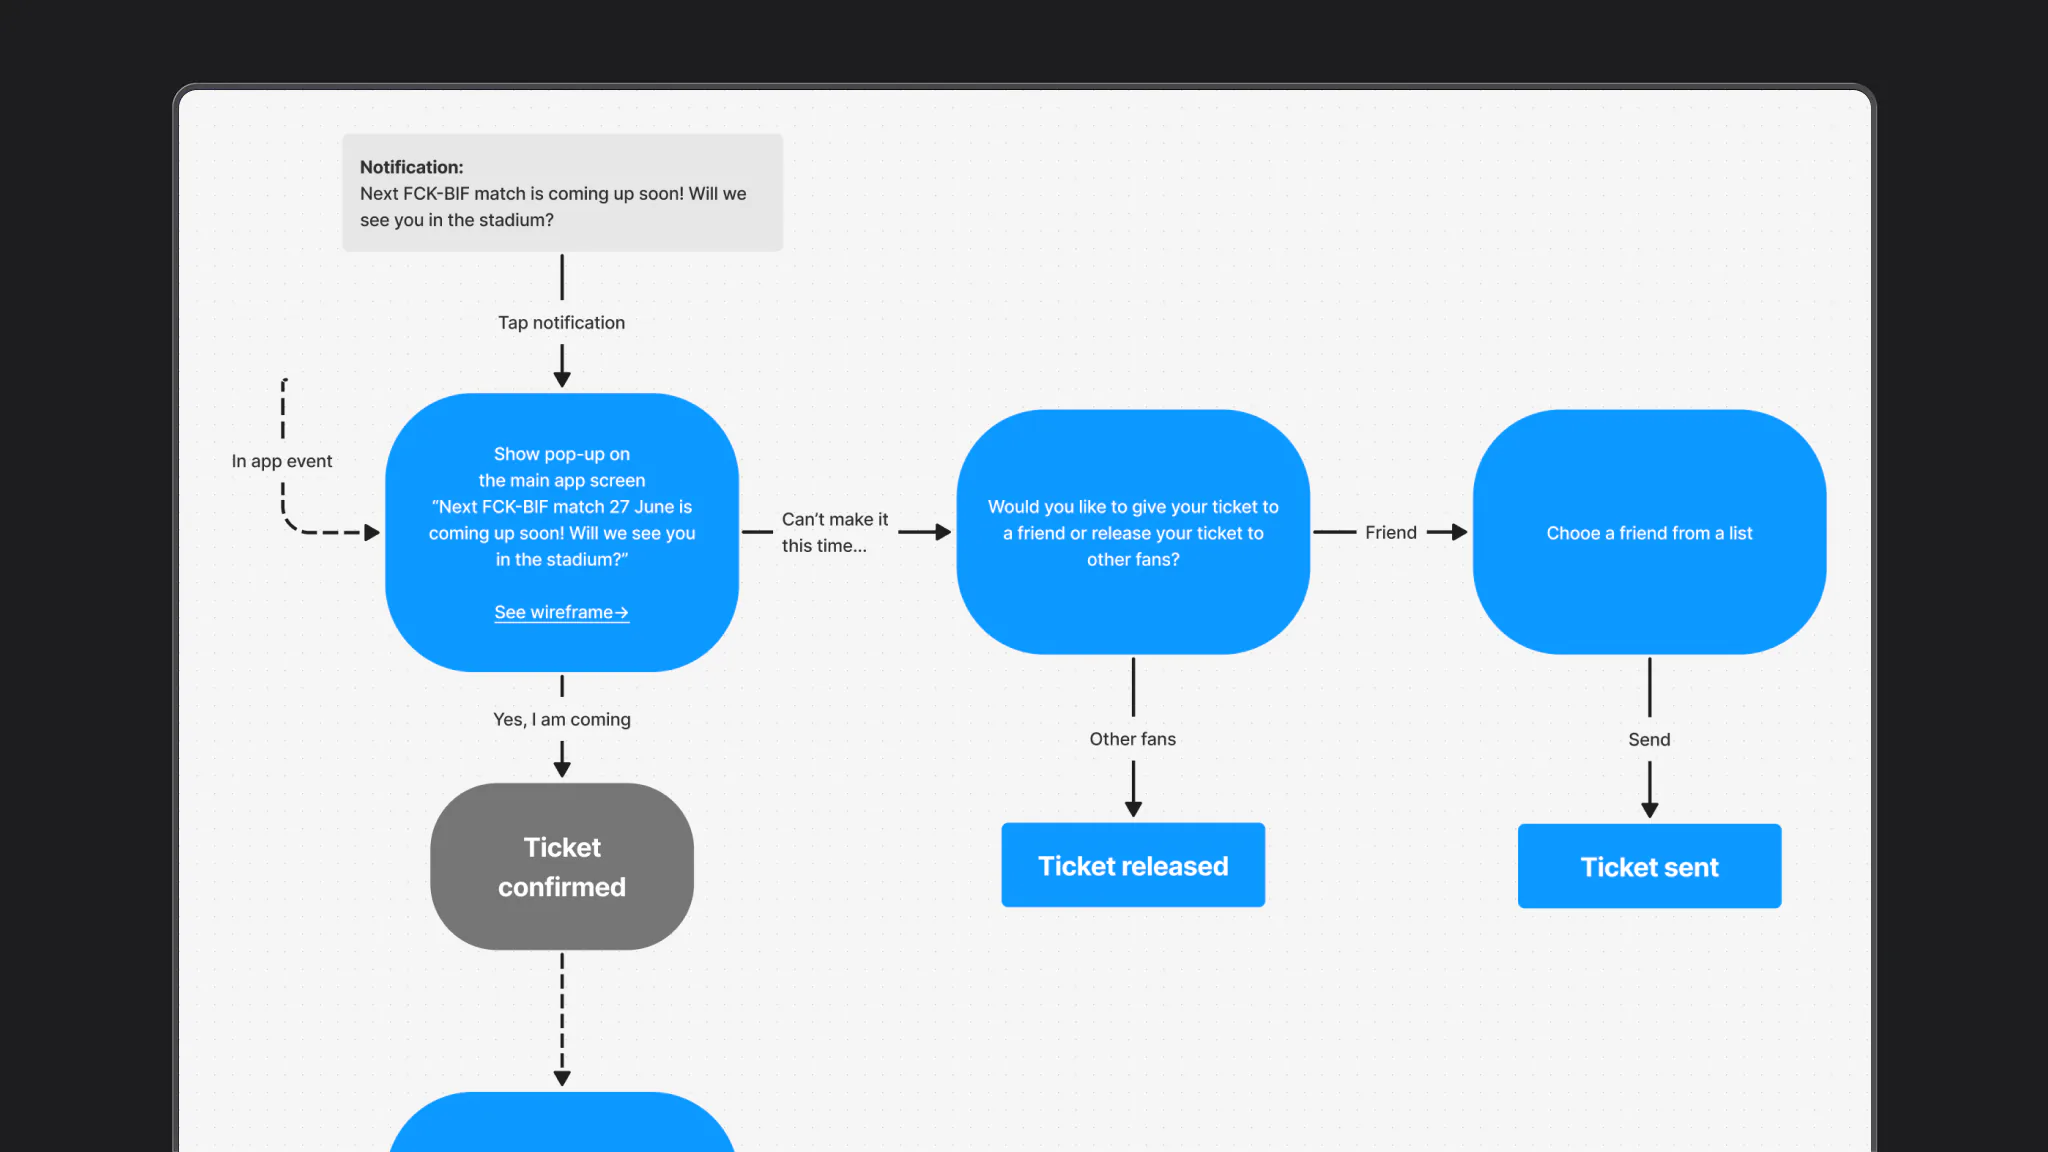
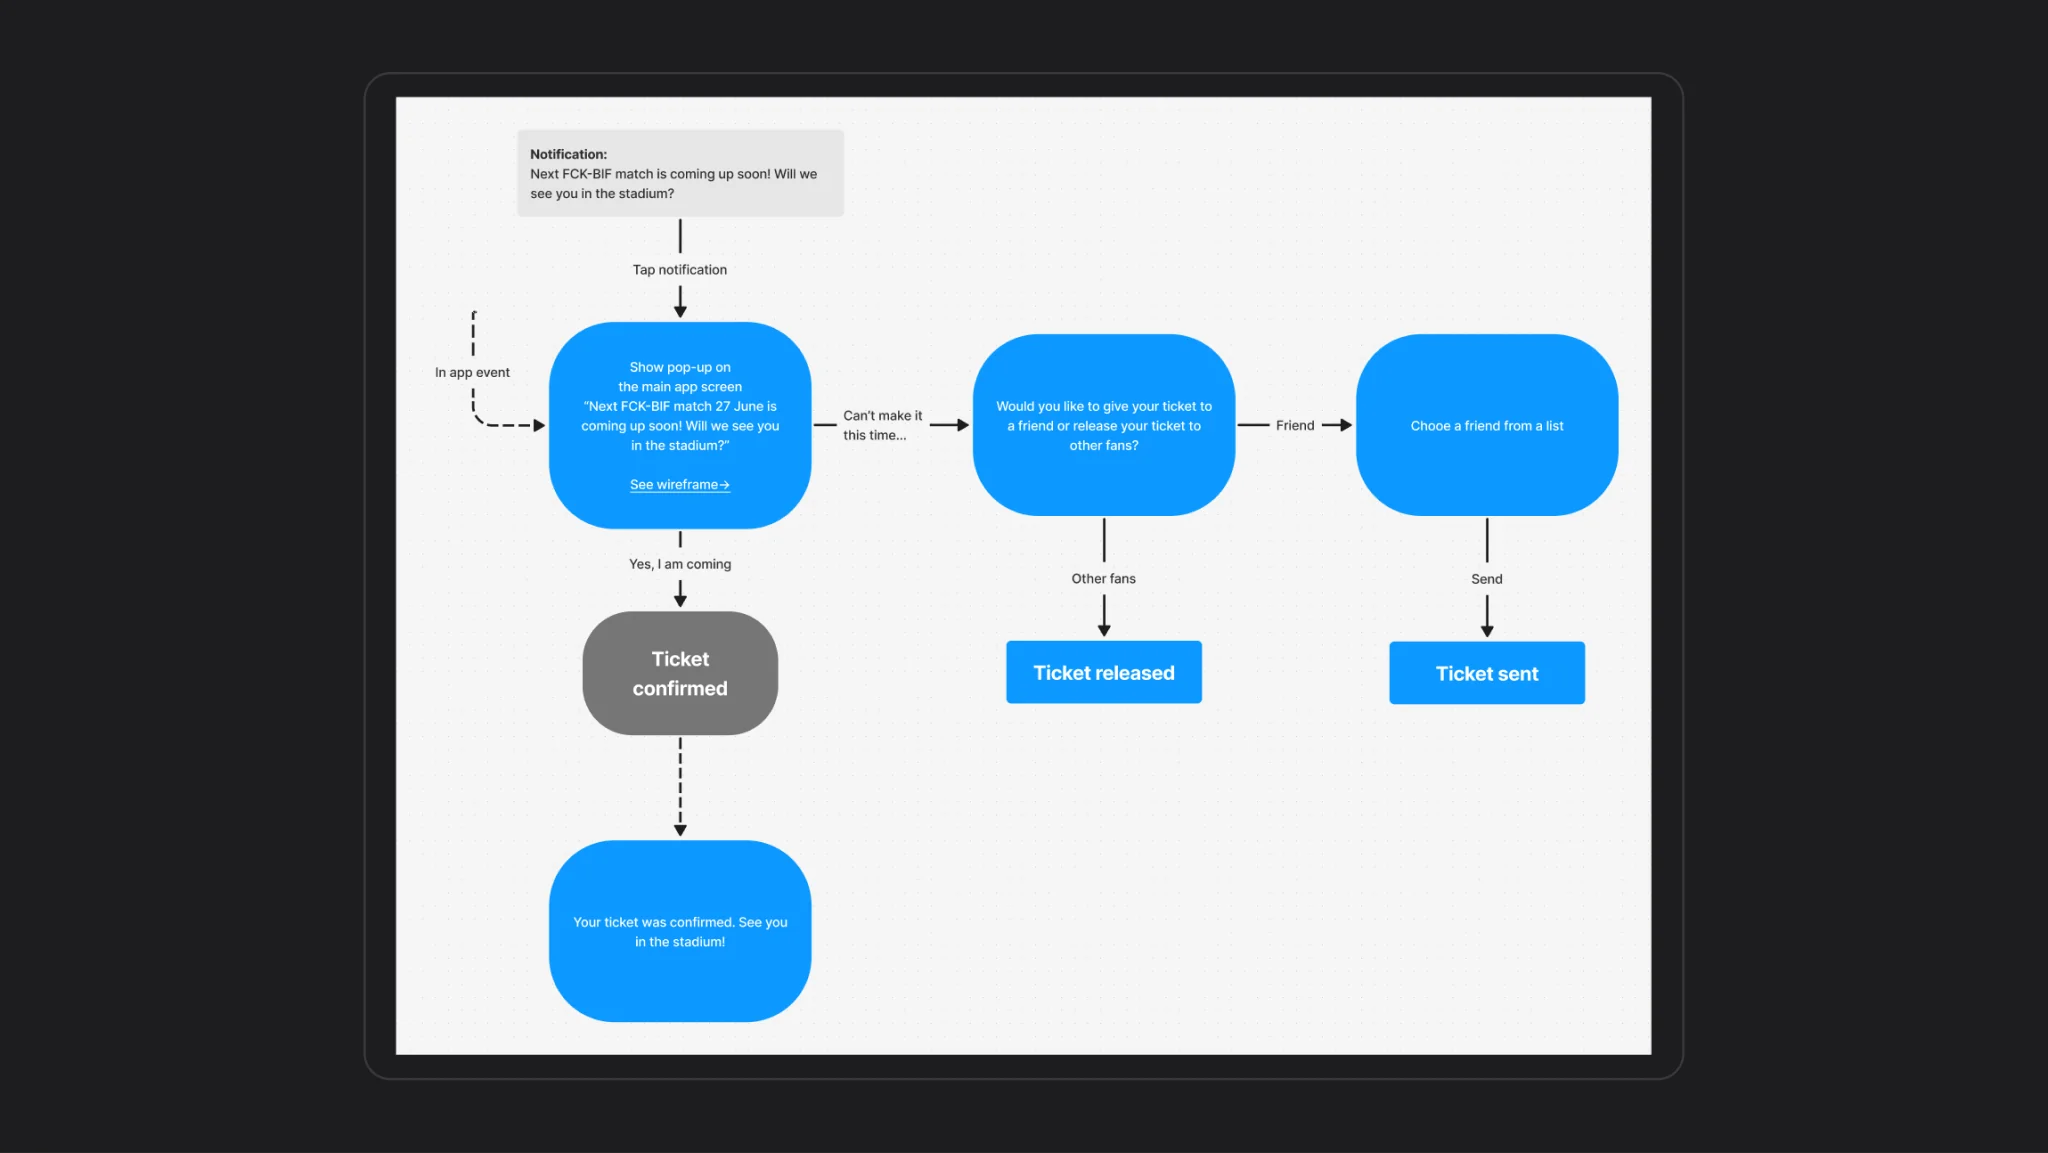
White-label case: process boards in one style
All four process boards re-exported from the restyled Figma sections and framed
the same way (16:9 dark card, bordered board).

Claude-Session: https://claude.ai/code/session_01MkgcQijRKxNi5uAKBjC4dC

diff --git a/white-label-app.html b/white-label-app.html
@@ -54,13 +54,13 @@
 <ul class="reveal"><li>One codebase for 10+&nbsp;club brands, each with its own colours, fonts and imagery</li><li>Used at home and in a crowded stadium, often with one hand</li><li>Two ticket providers, Roboticket and Eventii, with different rules, waiting states and errors</li><li>Up to 40% of season-card holders need to release or transfer a ticket for each match</li></ul>
 <h2 class="reveal">Process</h2>
 <p class="reveal">We worked from fan scenarios, not from screens. The FCK board follows one fan question — what is the next match? — from the day after a game to the final whistle of the next one.</p>
-<div class="media reveal"><figure class="fig"><img src="img/white-label-app/process-fck-journey.webp" alt="FCK journey map: what a fan does the week before, on match day, during and after the match" width="2048" height="791" loading="lazy" decoding="async"><figcaption>FCK board<span class="sep">·</span>what is the next match?</figcaption></figure></div>
+<div class="media reveal"><figure class="fig"><img src="img/white-label-app/process-fck-journey.webp" alt="FCK journey map: what a fan does the week before, on match day, during and after the match" width="2048" height="1153" loading="lazy" decoding="async"><figcaption>FCK board<span class="sep">·</span>what is the next match?</figcaption></figure></div>
 <p class="reveal">For the Brøndby&nbsp;IF app we benchmarked how four big clubs sell match tickets in their apps. Three paths end on an external site, and one gets stuck at the login request.</p>
 <div class="media reveal"><figure class="fig"><img src="img/white-label-app/process-benchmark.webp" alt="Benchmark of buy-ticket journeys in the Juventus, FC Barcelona, Manchester City and Inter apps: number of steps, where each path ends, and what works or hurts" width="2048" height="1153" loading="lazy" decoding="async"><figcaption>Buy-ticket benchmark<span class="sep">·</span>Juventus, FC&nbsp;Barcelona, Manchester&nbsp;City, Inter</figcaption></figure></div>
 <p class="reveal">Before the screens I mapped how a new fan gets into the app: first open, permissions, login or skip, home. Notifications and location matter on match day, but they should not block someone who only wants to see the next game.</p>
-<div class="media reveal"><figure class="fig"><img src="img/white-label-app/main-app-flow.webp" alt="Main app flow: first open, permissions, login or skip, home screen" width="2048" height="1152" loading="lazy" decoding="async"><figcaption>Main app flow: ask for permissions when they matter</figcaption></figure></div>
+<div class="media reveal"><figure class="fig"><img src="img/white-label-app/main-app-flow.webp" alt="Main app flow: first open, permissions, login or skip, home screen" width="2048" height="1153" loading="lazy" decoding="async"><figcaption>Main app flow: ask for permissions when they matter</figcaption></figure></div>
 <p class="reveal">Ticketing started as sketches by fan type. A season-card holder, a ticket subscriber, a ticket holder and a fan with no ticket each get a different question before the match.</p>
-<div class="media reveal"><figure class="fig"><img src="img/white-label-app/process-shaping-wallet.webp" alt="Sketches of the pre-match card by fan type, with the season-card branch: going, can’t go, share or release" width="1058" height="720" loading="lazy" decoding="async"><figcaption>One question per fan type: will you come?</figcaption></figure></div>
+<div class="media reveal"><figure class="fig"><img src="img/white-label-app/process-shaping-wallet.webp" alt="Sketches of the pre-match card by fan type, with the season-card branch: going, can’t go, share or release" width="2048" height="1153" loading="lazy" decoding="async"><figcaption>One question per fan type: will you come?</figcaption></figure></div>
 <h2 class="reveal">Key decisions</h2>
 <h3 class="reveal">Actions that can’t be undone need a swipe</h3>
 <p class="reveal">A transfer or a release can’t be taken back, and on match day people use the app in a crowd. So both are confirmed with a swipe, not a tap, and the screen spells out the match, the seat and what the fan gives up. Cost: one extra gesture, only where a mistake is expensive.</p>
@@ -75,7 +75,7 @@
 <h2 class="reveal">Ticketing: two providers, many states</h2>
 <p class="reveal">Ticketing was the hardest part of the app. Fans hold single tickets or season cards, and up to 40% of season-card holders need to release or transfer a ticket for each match. Behind that were two providers with different rules.</p>
 <p class="reveal">On the FCK board I mapped the decision first. Before a match the fan confirms they are going, sends the seat to a friend, or releases it. The screens follow that split.</p>
-<div class="media reveal"><figure class="fig"><img src="img/white-label-app/release-ticket.webp" alt="FCK UX board: confirm, send or release a seat before the match" width="2048" height="1152" loading="lazy" decoding="async"><figcaption>FCK board<span class="sep">·</span>confirm, send or release</figcaption></figure></div>
+<div class="media reveal"><figure class="fig"><img src="img/white-label-app/release-ticket.webp" alt="FCK UX board: confirm, send or release a seat before the match" width="2048" height="1153" loading="lazy" decoding="async"><figcaption>FCK board<span class="sep">·</span>confirm, send or release</figcaption></figure></div>
 <h3 class="reveal">Wallet</h3>
 <p class="reveal">The wallet is empty until the fan account is linked to the ticketing system. Then the same place holds single tickets and season cards.</p>
 <div class="gallery gallery--phones reveal" style="--cols:3"><figure class="fig"><img src="img/white-label-app/wallet-missing-connection.webp" alt="Wallet before the account is linked: a missing connection message and a link to the ticketing site" width="786" height="1704" loading="lazy" decoding="async"><figcaption>Nothing to show until the account is linked</figcaption></figure><figure class="fig"><img src="img/white-label-app/wallet-ticket.webp" alt="A single ticket with the QR code, seat details and actions: add to wallet, transfer, share as PDF, release" width="786" height="1704" loading="lazy" decoding="async"><figcaption>One ticket, every action under the code</figcaption></figure><figure class="fig"><img src="img/white-label-app/wallet-season-card.webp" alt="A season card with its QR code and the list of season-card matches below" width="786" height="1704" loading="lazy" decoding="async"><figcaption>A season card with its matches below</figcaption></figure></div>
